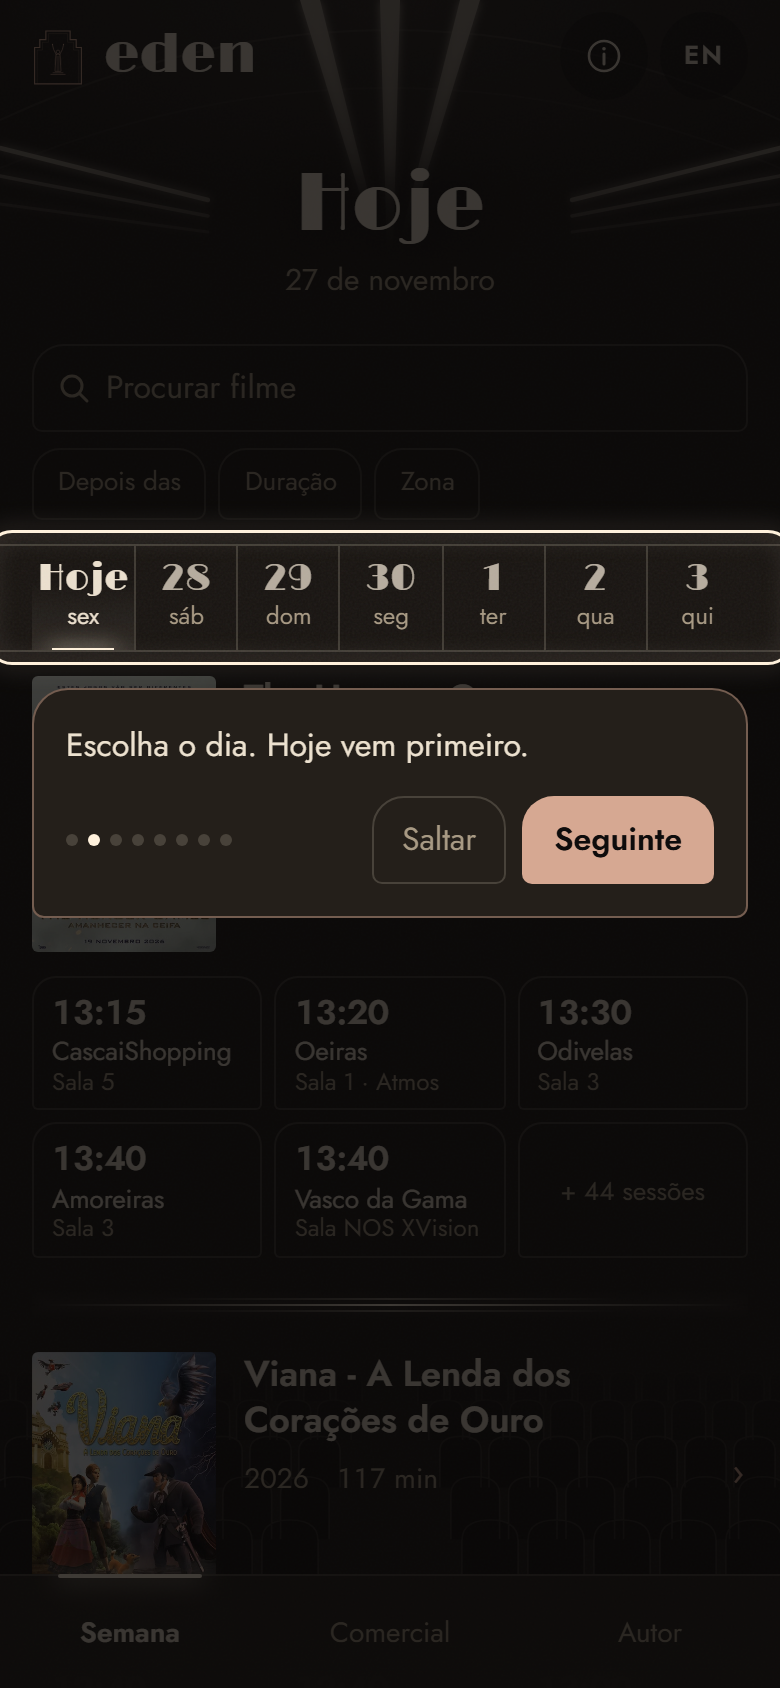
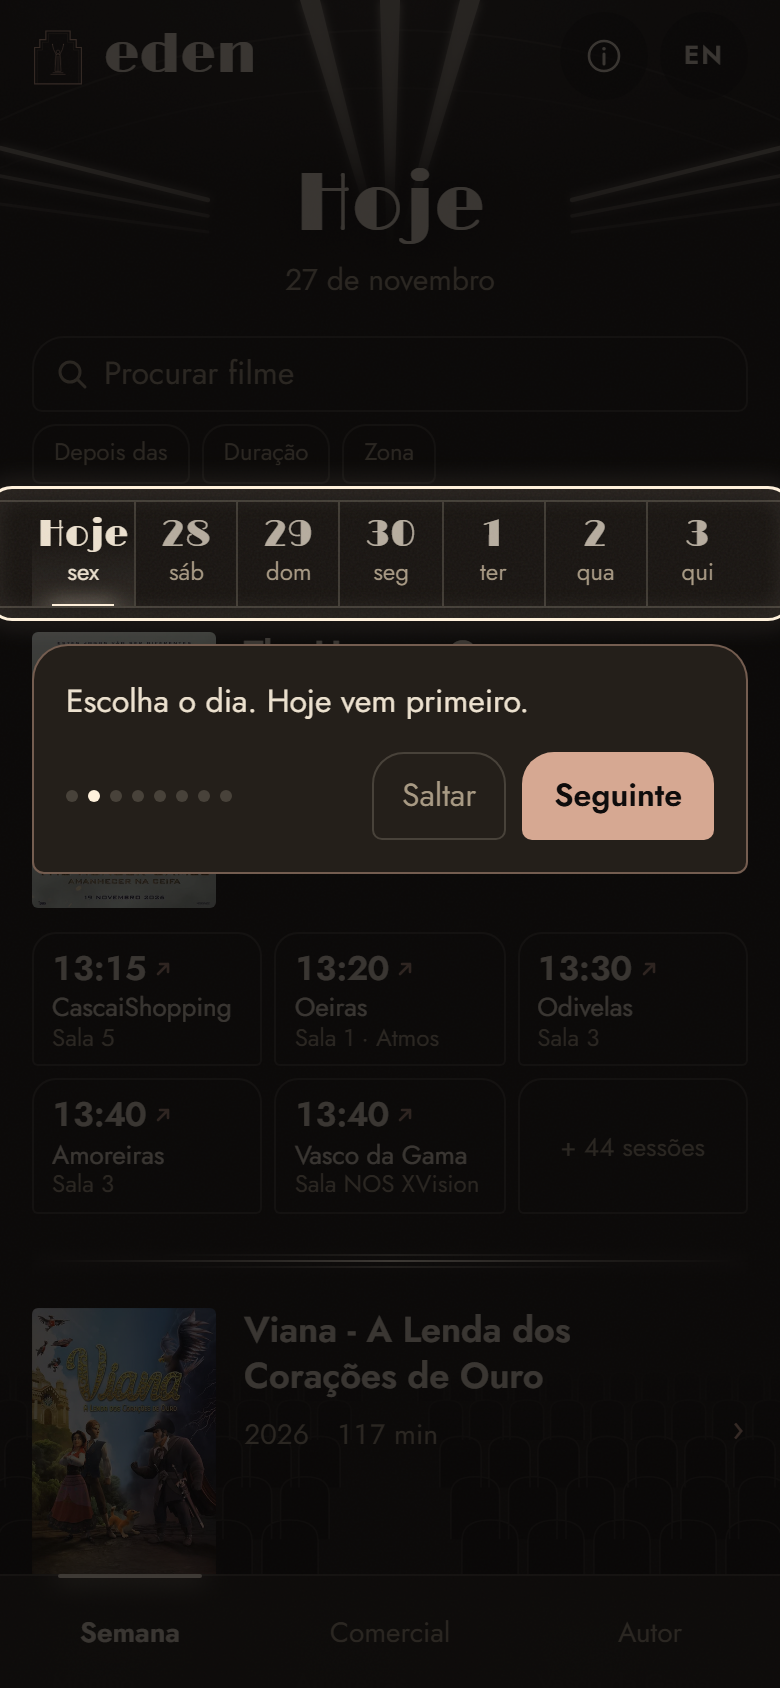
Round 3b (José's phone review): close button instead of swipe, ↗ on every time, compact search, zone wheel fix, info trimmed

diff --git a/web/src/styles.css b/web/src/styles.css
@@ -111,7 +111,9 @@ main { position: relative; z-index: 1; }
 
 /* ── Session chip ─────────────────────────────────────── */
 .chip { display: block; min-height: 58px; padding: 7px 9px 6px; background: rgb(26 22 19 / .82); border: 1px solid var(--fio); border-radius: 12px 12px 3px 3px; text-decoration: none; line-height: 1.2; overflow: hidden; text-align: left; transition: border-color .15s; }
-.chip time { display: block; font: 600 1.0625rem/1.2 var(--font-sans); font-variant-numeric: tabular-nums; }
+.chip time { font: 600 1.0625rem/1.2 var(--font-sans); font-variant-numeric: tabular-nums; }
+.chip-time { display: flex; align-items: center; gap: 4px; }
+.chip .go { display: inline-block; color: var(--color-pedra); opacity: .85; flex: none; }
 .chip .where { display: block; font-size: .8125rem; margin-top: 2px; white-space: nowrap; overflow: hidden; text-overflow: ellipsis; }
 .chip .what { display: block; font-size: .75rem; color: var(--color-po); white-space: nowrap; overflow: hidden; text-overflow: ellipsis; }
 .chip:hover { border-color: var(--pedra-fio); }
@@ -154,9 +156,10 @@ main { position: relative; z-index: 1; }
 @keyframes sheet-up { from { transform: translateY(48px); opacity: .4; } to { transform: none; opacity: 1; } }
 .sheet-body:focus { outline: none; }
 .sheet-body { background: var(--color-balcao); border-radius: 50% 50% 0 0 / 34px 34px 0 0; padding: 30px 16px calc(24px + env(safe-area-inset-bottom)); max-height: 88dvh; overflow-y: auto; overscroll-behavior: contain; }
-.sheet-body { position: relative; touch-action: pan-y; }
-.sheet-close { position: absolute; top: 2px; left: 50%; width: 72px; height: 28px; margin-left: -36px; display: grid; place-items: center; border-radius: 14px; }
-.sheet-close span { width: 40px; height: 4px; border-radius: 4px; background: var(--fio); }
+.sheet-body { position: relative; }
+.sheet-close { position: absolute; top: 2px; left: 50%; width: 64px; height: 34px; margin-left: -32px; display: grid; place-items: center; border-radius: 14px; color: var(--color-po); }
+.sheet-close:hover { color: var(--color-travertino); }
+
 .sheet-head { display: grid; grid-template-columns: 84px 1fr; gap: 14px; }
 .sheet-head .poster { width: 84px; }
 .sheet h2 { font: 400 1.3rem/1.15 var(--font-display); margin: 0; text-wrap: balance; }
@@ -194,19 +197,19 @@ main { position: relative; z-index: 1; }
 @media (prefers-reduced-motion: reduce) { *, *::before, *::after { transition: none !important; animation: none !important; scroll-behavior: auto !important; } }
 
 /* ── Search + filters ─────────────────────────────────── */
-.search { margin: 4px 0 12px; }
-.search-field { display: flex; align-items: center; gap: 8px; min-height: 44px; padding: 0 6px 0 12px; border: 1px solid var(--fio); border-radius: 16px 16px 5px 5px; background: rgb(26 22 19 / .82); color: var(--color-po); }
+.search { margin: 0 0 8px; }
+.search-field { display: flex; align-items: center; gap: 8px; min-height: 38px; padding: 0 4px 0 11px; border: 1px solid var(--fio); border-radius: 16px 16px 5px 5px; background: rgb(26 22 19 / .82); color: var(--color-po); }
 .search-field:focus-within { border-color: var(--pedra-fio); }
-.search-field input { flex: 1; min-width: 0; height: 42px; border: 0; background: none; color: var(--color-travertino); font: inherit; font-size: 1rem; outline: none; }
+.search-field input { flex: 1; min-width: 0; height: 36px; border: 0; background: none; color: var(--color-travertino); font: inherit; font-size: 1rem; outline: none; }
 .search-field input::placeholder { color: var(--color-po); }
 .search-field input::-webkit-search-cancel-button { display: none; }
-.search-x { width: 36px; height: 36px; font-size: 1.25rem; color: var(--color-po); border-radius: 12px; }
-.fpills { display: flex; gap: 6px; margin-top: 8px; flex-wrap: wrap; }
-.fpill { display: inline-flex; align-items: center; border: 1px solid var(--fio); border-radius: 14px 14px 5px 5px; color: var(--color-po); font-size: .8125rem; background: rgb(26 22 19 / .7); }
+.search-x { width: 32px; height: 32px; font-size: 1.15rem; color: var(--color-po); border-radius: 10px; }
+.fpills { display: flex; gap: 6px; margin-top: 6px; flex-wrap: wrap; }
+.fpill { display: inline-flex; align-items: center; border: 1px solid var(--fio); border-radius: 12px 12px 4px 4px; color: var(--color-po); font-size: .75rem; background: rgb(26 22 19 / .7); }
 .fpill.on { border-color: var(--pedra-fio); color: var(--color-pedra); }
-.fpill-main { min-height: 34px; padding: 0 12px; }
+.fpill-main { min-height: 28px; padding: 0 10px; }
 .fpill.on .fpill-main { padding-right: 4px; }
-.fpill-x { min-width: 30px; min-height: 34px; font-size: 1rem; }
+.fpill-x { min-width: 26px; min-height: 28px; font-size: .95rem; }
 .no-results { text-align: center; padding: 28px 0; color: var(--color-po); }
 .no-results p { margin: 0 0 10px; }
 .link-btn { min-height: 44px; padding: 0 16px; color: var(--color-pedra); font-weight: 500; border: 1px solid var(--pedra-fio); border-radius: 16px 16px 5px 5px; }
@@ -220,7 +223,9 @@ main { position: relative; z-index: 1; }
 .wheel-col::-webkit-scrollbar { display: none; }
 .wheel-col:focus-visible { outline: 2px solid var(--color-luz); outline-offset: -2px; }
 .wheel-pad { height: 80px; }
-.wheel-item { height: 40px; line-height: 40px; scroll-snap-align: center; color: var(--color-po); font-size: 1.05rem; font-variant-numeric: tabular-nums; cursor: pointer; }
+.wheel-item { height: 40px; line-height: 40px; scroll-snap-align: center; color: var(--color-po); font-size: 1.05rem; font-variant-numeric: tabular-nums; cursor: pointer; white-space: nowrap; overflow: hidden; text-overflow: ellipsis; }
+.wheel-col.wide { width: 240px; }
+.wheel-col.wide .wheel-item.on { font-size: 1.15rem; }
 .wheel-item.on { color: var(--color-travertino); font-size: 1.3rem; font-weight: 500; }
 .wheel-sep { align-self: center; font-size: 1.3rem; color: var(--color-travertino); }
 .wheel-actions, .info-actions { display: grid; gap: 8px; }

diff --git a/web/src/components/Sheet.tsx b/web/src/components/Sheet.tsx
@@ -4,7 +4,7 @@ import { useT } from "../lib/i18n.ts";
 /**
  * Bottom sheet with the arched top (film sheet, info, filter wheels).
  * - native <dialog> (Escape and the backdrop close it)
- * - slides up; swipe down to close (from the handle/top, or anywhere once scrolled to the top)
+ * - slides up; closed with the arrow button (no swipe: it fought the scroll wheels — José)
  * - focus lands on the sheet itself, not on the handle — no focus box after a tap (José's screenshot)
  */
 export function Sheet({ label, onClose, children, className = "" }: { label: string; onClose: () => void; children: ReactNode; className?: string }) {
@@ -20,49 +20,14 @@ export function Sheet({ label, onClose, children, className = "" }: { label: str
     return () => document.documentElement.classList.remove("sheet-open");
   }, []);
 
-  // Swipe down to close. Touch only (mouse users have the handle, Escape and the backdrop).
-  useEffect(() => {
-    const el = body.current!;
-    let startY = 0, startT = 0, dy = 0, dragging = false, fromTop = false;
-    const reduce = matchMedia("(prefers-reduced-motion: reduce)").matches;
-    const onStart = (e: TouchEvent) => {
-      const target = e.target as HTMLElement;
-      fromTop = !!target.closest(".sheet-grip") || el.scrollTop <= 0;
-      startY = e.touches[0]!.clientY; startT = performance.now(); dy = 0; dragging = false;
-    };
-    const onMove = (e: TouchEvent) => {
-      if (!fromTop) return;
-      dy = e.touches[0]!.clientY - startY;
-      if (dy <= 0) { if (dragging) { el.style.transform = ""; dragging = false; } return; }
-      dragging = true;
-      e.preventDefault(); // stop the page from scrolling while the sheet follows the finger
-      el.style.transition = "none";
-      el.style.transform = `translateY(${dy}px)`;
-    };
-    const onEnd = () => {
-      if (!dragging) return;
-      const fast = dy / Math.max(1, performance.now() - startT) > 0.6;
-      el.style.transition = reduce ? "none" : "transform .2s ease-out";
-      if (dy > 90 || fast) {
-        el.style.transform = `translateY(${el.offsetHeight}px)`;
-        setTimeout(onClose, reduce ? 0 : 180);
-      } else {
-        el.style.transform = "";
-      }
-      dragging = false;
-    };
-    el.addEventListener("touchstart", onStart, { passive: true });
-    el.addEventListener("touchmove", onMove, { passive: false });
-    el.addEventListener("touchend", onEnd);
-    return () => { el.removeEventListener("touchstart", onStart); el.removeEventListener("touchmove", onMove); el.removeEventListener("touchend", onEnd); };
-  }, [onClose]);
-
   return (
     <dialog ref={dialog} className={`sheet ${className}`} aria-label={label}
       onCancel={(e) => { e.preventDefault(); onClose(); }}
       onClick={(e) => { if (e.target === dialog.current) onClose(); }}>
       <div ref={body} className="sheet-body" tabIndex={-1}>
-        <button type="button" className="sheet-close sheet-grip" onClick={onClose} aria-label={t.close}><span aria-hidden="true" /></button>
+        <button type="button" className="sheet-close" onClick={onClose} aria-label={t.close}>
+          <svg width="22" height="12" viewBox="0 0 22 12" aria-hidden="true"><path d="M2 2l9 8 9-8" fill="none" stroke="currentColor" strokeWidth="2" strokeLinecap="round" strokeLinejoin="round" /></svg>
+        </button>
         {children}
       </div>
     </dialog>

diff --git a/web/src/components/Search.tsx b/web/src/components/Search.tsx
@@ -8,7 +8,7 @@ import { Sheet } from "./Sheet.tsx";
 const ITEM = 40; // px per wheel row
 
 /** One scroll-wheel column (iPhone-style): snaps to a row; tap a row or use ↑/↓. */
-function WheelColumn({ options, value, onChange, label }: { options: string[]; value: number; onChange: (i: number) => void; label: string }) {
+function WheelColumn({ options, value, onChange, label, wide = false }: { options: string[]; value: number; onChange: (i: number) => void; label: string; wide?: boolean }) {
   const ref = useRef<HTMLDivElement>(null);
   const timer = useRef<ReturnType<typeof setTimeout>>(undefined);
   // The sheet's <dialog> opens after this mounts, so wait a frame before scrolling to the current value.
@@ -19,7 +19,7 @@ function WheelColumn({ options, value, onChange, label }: { options: string[]; v
     ref.current!.scrollTo({ top: j * ITEM, behavior: matchMedia("(prefers-reduced-motion: reduce)").matches ? "auto" : "smooth" });
   };
   return (
-    <div className="wheel-col" ref={ref} role="listbox" aria-label={label} tabIndex={0}
+    <div className={wide ? "wheel-col wide" : "wheel-col"} ref={ref} role="listbox" aria-label={label} tabIndex={0}
       aria-activedescendant={`${label}-${value}`}
       onScroll={() => { clearTimeout(timer.current); timer.current = setTimeout(() => {
         const i = Math.round(ref.current!.scrollTop / ITEM);
@@ -72,7 +72,7 @@ function WheelSheet({ which, filters, onApply, onClose }: { which: Which; filter
           <WheelColumn label={lang === "pt" ? "minutos" : "minutes"} options={QUARTERS} value={b} onChange={setB} />
         </>}
         {which === "zone" && (
-          <WheelColumn label={t.zone} options={[t.allZones, ...ZONES.map((z) => z[lang])]} value={a} onChange={setA} />
+          <WheelColumn label={t.zone} options={[t.allZones, ...ZONES.map((z) => z[lang])]} value={a} onChange={setA} wide />
         )}
       </div>
       <div className="wheel-actions">

diff --git a/web/src/components/Session.tsx b/web/src/components/Session.tsx
@@ -13,6 +13,15 @@ export function ShareGlyph({ size = 14 }: { size?: number }) {
   );
 }
 
+/** Tiny ↗: tapping the time opens the cinema's own booking page (José: make that visible). */
+function GoGlyph() {
+  return (
+    <svg className="go" width="9" height="9" viewBox="0 0 9 9" aria-hidden="true">
+      <path d="M2 7l5-5M3 2h4v4" fill="none" stroke="currentColor" strokeWidth="1.3" strokeLinecap="round" strokeLinejoin="round" />
+    </svg>
+  );
+}
+
 /**
  * Session chip: time · cinema · room/label. Opens the official URL (session > film > venue).
  * In the film sheet it also gets a small share button, and the session someone shared with you is lit.
@@ -26,7 +35,7 @@ export function Chip({ s, showCinema = true, badge = false, lit = false, onShare
   const autor = badge && isArthouse(s);
   const chip = (
     <a className={lit ? "chip lit" : "chip"} href={s.url} target="_blank" rel="noopener noreferrer" data-session={s.id}>
-      <time dateTime={s.startsAt}>{hhmm(s.startsAt)}</time>
+      <span className="chip-time"><time dateTime={s.startsAt}>{hhmm(s.startsAt)}</time><GoGlyph /></span>
       {showCinema && <span className="where">{cinema?.shortName}</span>}
       <span className="what">{autor && <span className="badge">{t.badge}</span>}{detail || " "}</span>
     </a>

diff --git a/web/src/components/Info.tsx b/web/src/components/Info.tsx
@@ -24,8 +24,6 @@ export function InfoSheet({ onClose, onTour }: { onClose: () => void; onTour: ()
           </button>
           <a className="btn-line" href={`mailto:${FEEDBACK_EMAIL}?subject=${encodeURIComponent(t.feedbackSubject)}`}>{t.feedback}</a>
         </div>
-        <p className="info-galo">{t.galo}</p>
-        <p className="info-credits">{t.credits}</p>
       </div>
     </Sheet>
   );
